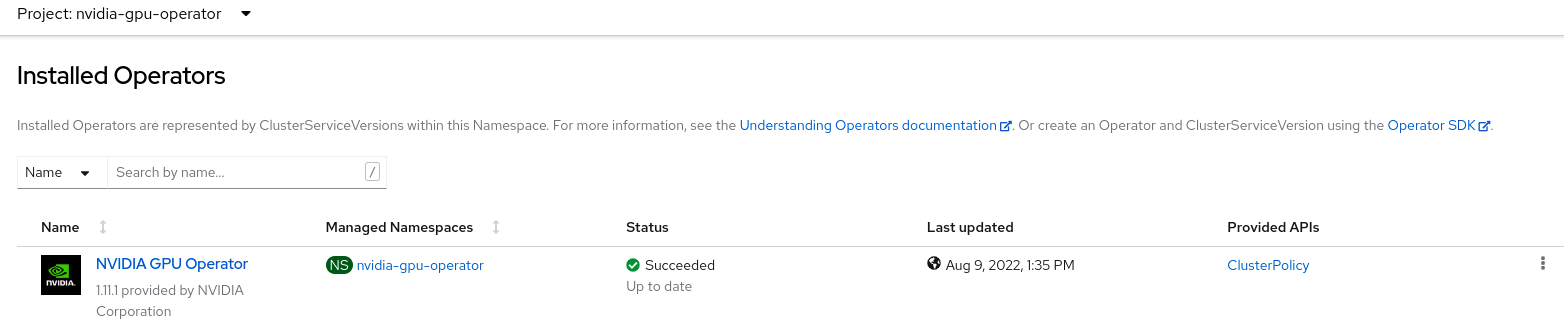
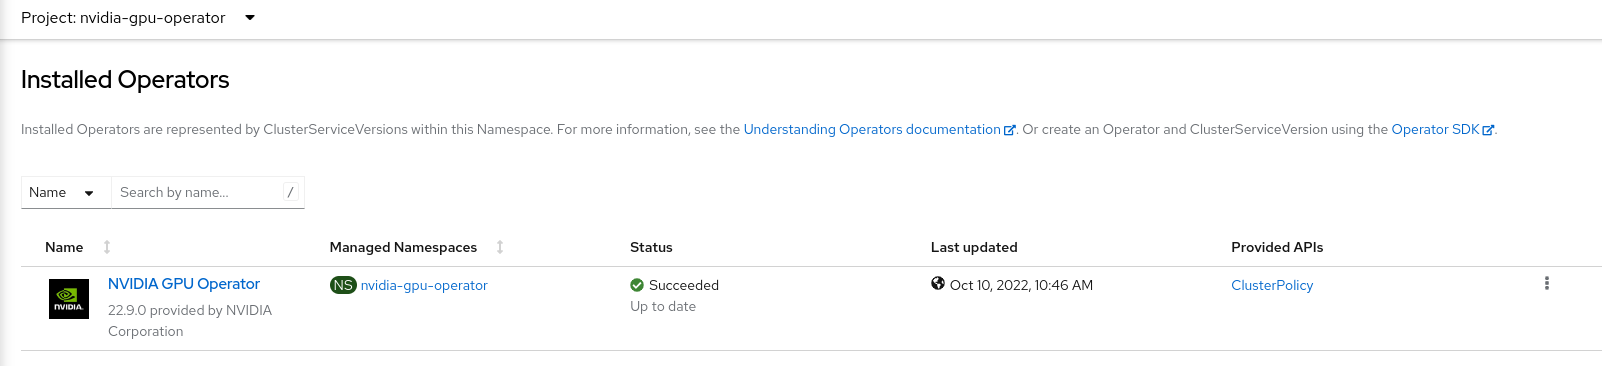
Updating screenshots to 22.9.0 for OpenShift, checking guidance and adding line about support

diff --git a/gpu-operator/openshift/install-gpu-ocp.rst b/gpu-operator/openshift/install-gpu-ocp.rst
@@ -222,7 +222,7 @@ Create the cluster policy using the web console
 
 #. The status of the newly deployed ClusterPolicy *gpu-cluster-policy* for the NVIDIA GPU Operator changes to ``State:ready`` when the installation succeeds.
 
- .. image:: graphics/cluster_policy_suceed.png
+ .. image:: graphics/cluster-policy-state-ready.png
 
 .. _verify-gpu-operator-install-ocp:
 
@@ -273,7 +273,7 @@ Create the cluster policy using the web console
 
 #. The status of the newly deployed ClusterPolicy *gpu-cluster-policy* for the NVIDIA GPU Operator changes to ``State:ready`` when the installation succeeds.
 
- .. image:: graphics/cluster_policy_suceed.png
+ .. image:: graphics/cluster-policy-state-ready.png
 
 .. _verify-gpu-operator-install-ocp:
 

diff --git a/gpu-operator/openshift/introduction.rst b/gpu-operator/openshift/introduction.rst
@@ -1,4 +1,4 @@
-.. Date: August 26 2021
+.. Date: Oct 24 2022
 .. Author: kquinn
 
 .. _openshift-introduction:
@@ -15,4 +15,4 @@ The NVIDIA GPU Operator uses the operator framework within Kubernetes to automat
 Kubernetes device plugin for GPUs, the `NVIDIA Container Toolkit <https://github.com/NVIDIA/nvidia-docker>`_,
 automatic node labelling using `GFD <https://github.com/NVIDIA/gpu-feature-discovery>`_, `DCGM <https://developer.nvidia.com/dcgm>`_ based monitoring and others.
 
-----
+For guidance on the specific NVIDIA support entitlement needs, see `obtaining support from NVIDIA <https://access.redhat.com/solutions/5174941>`_.
